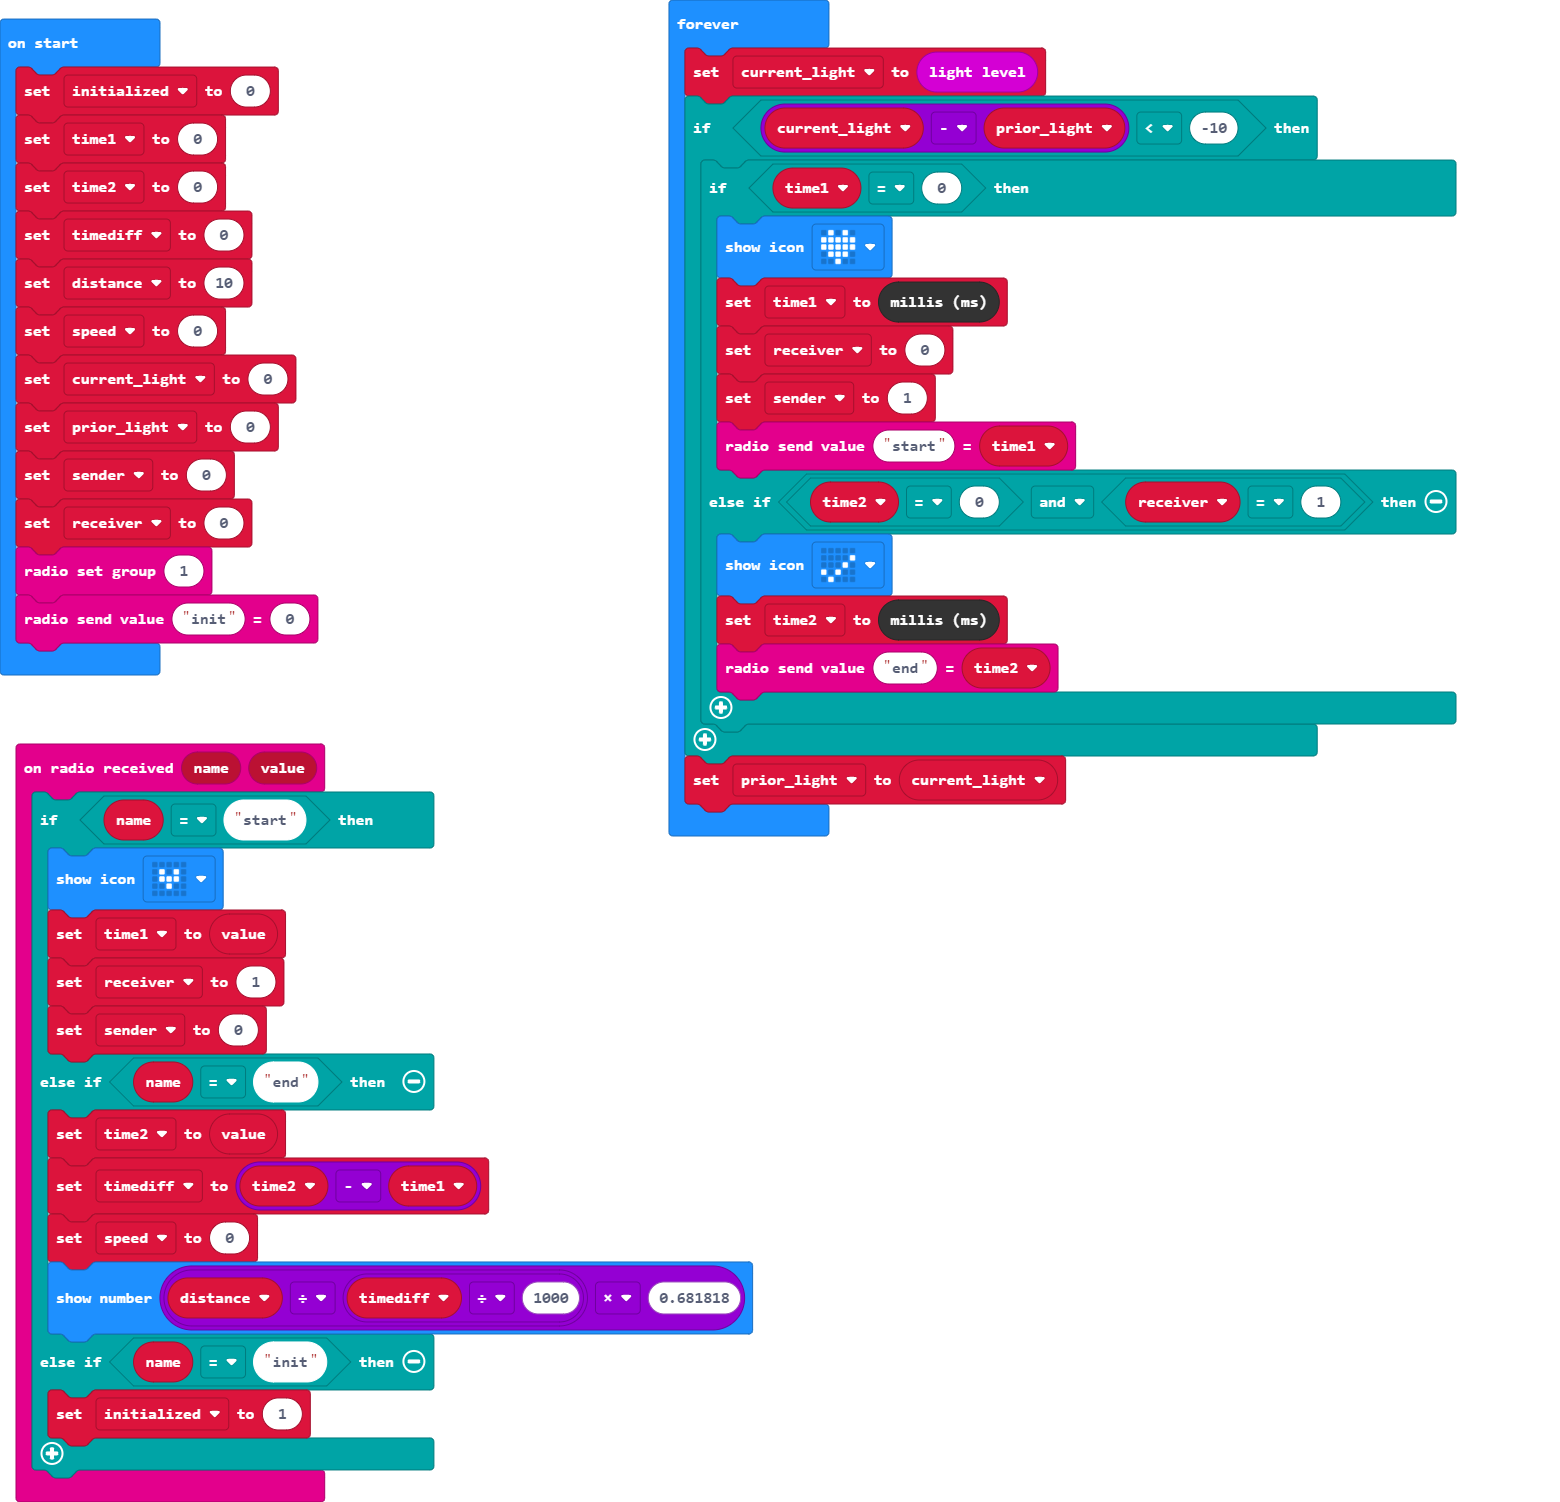
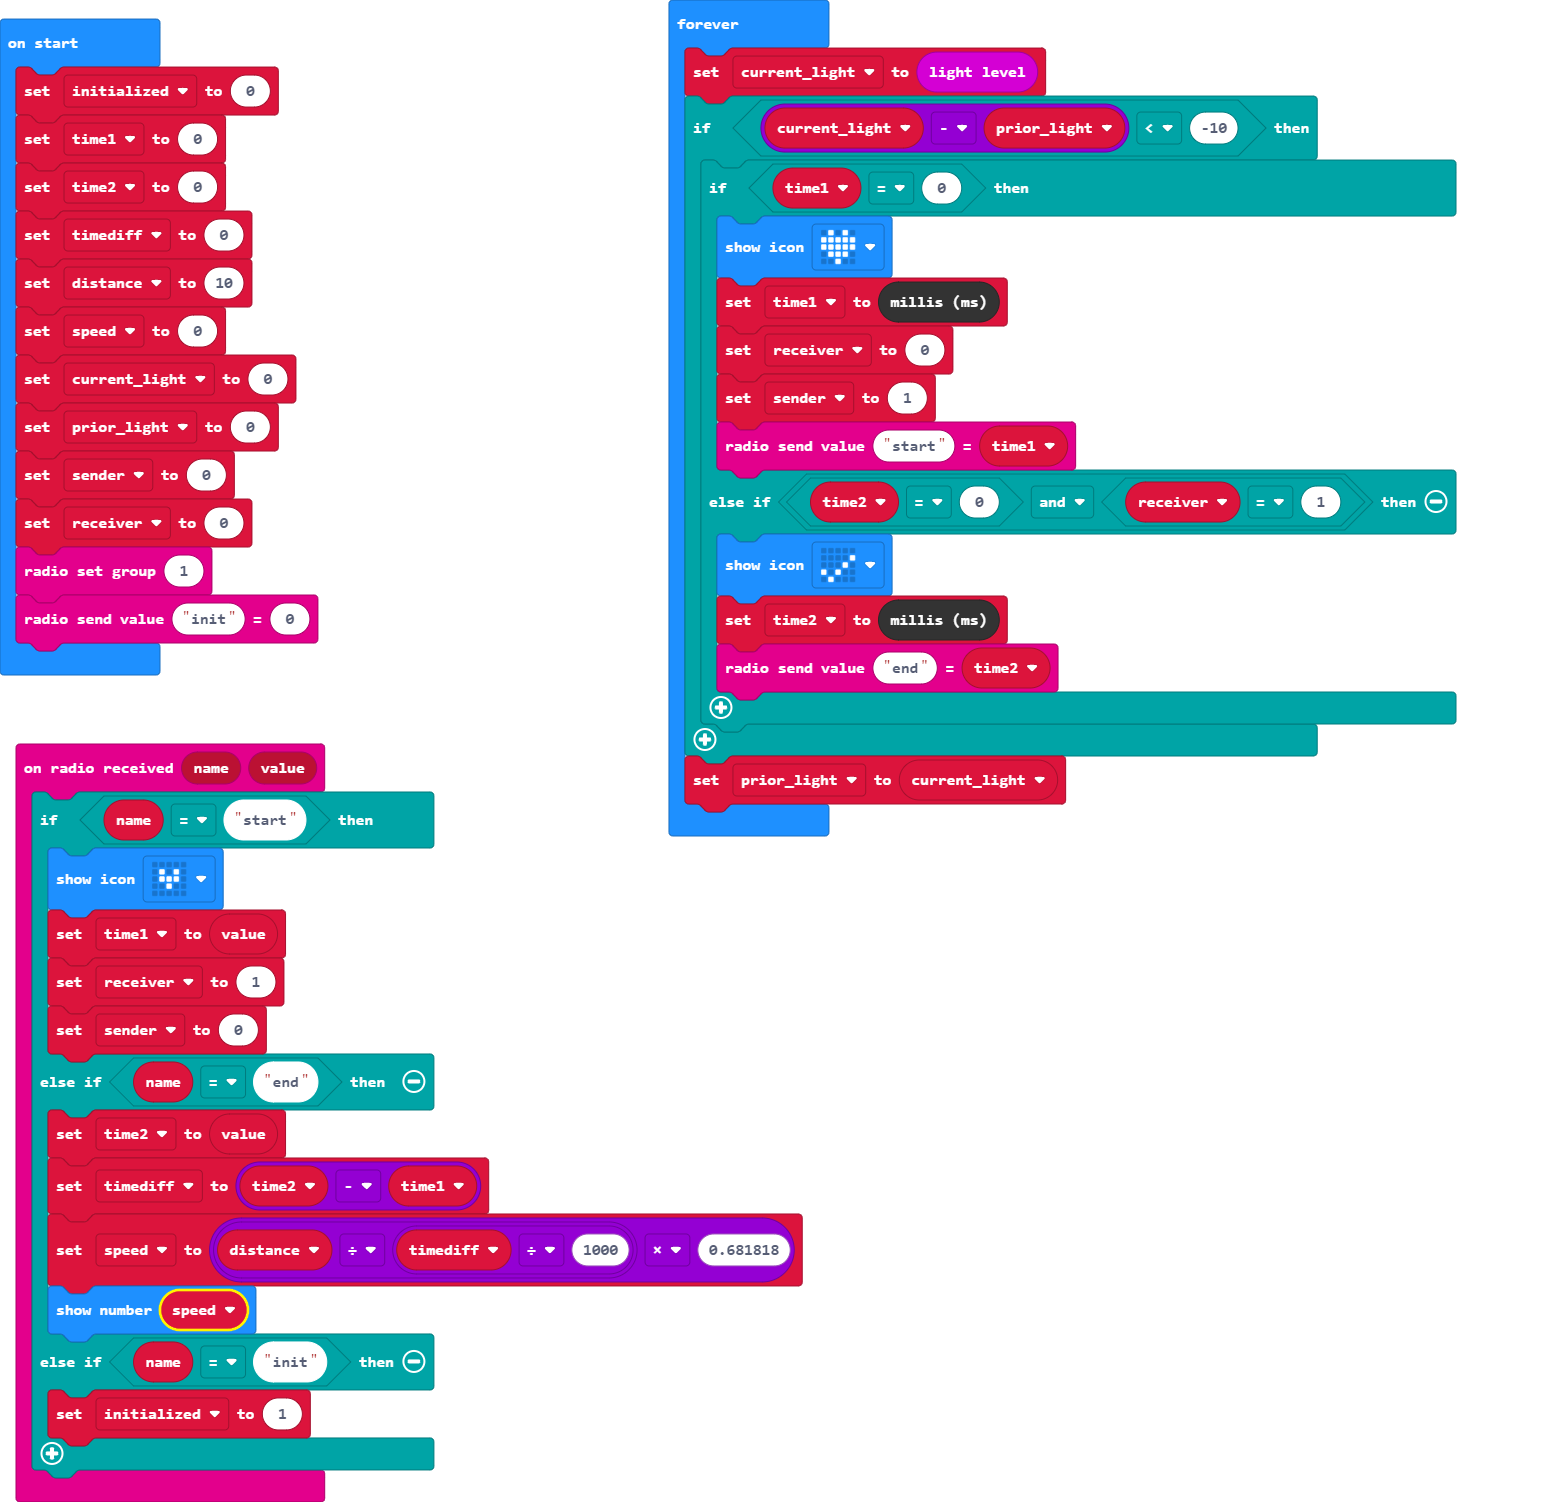
speed variable

Changed region(s): [[0.0308, 0.7963, 0.5231, 0.8881]]

diff --git a/main.ts b/main.ts
@@ -7,8 +7,8 @@ radio.onReceivedValue(function (name, value) {
     } else if (name == "end") {
         time2 = value
         timediff = time2 - time1
-        speed = 0
-        basic.showNumber(distance / (timediff / 1000) * 0.681818)
+        speed = distance / (timediff / 1000) * 0.681818
+        basic.showNumber(speed)
     } else if (name == "init") {
         initialized = 1
     }
